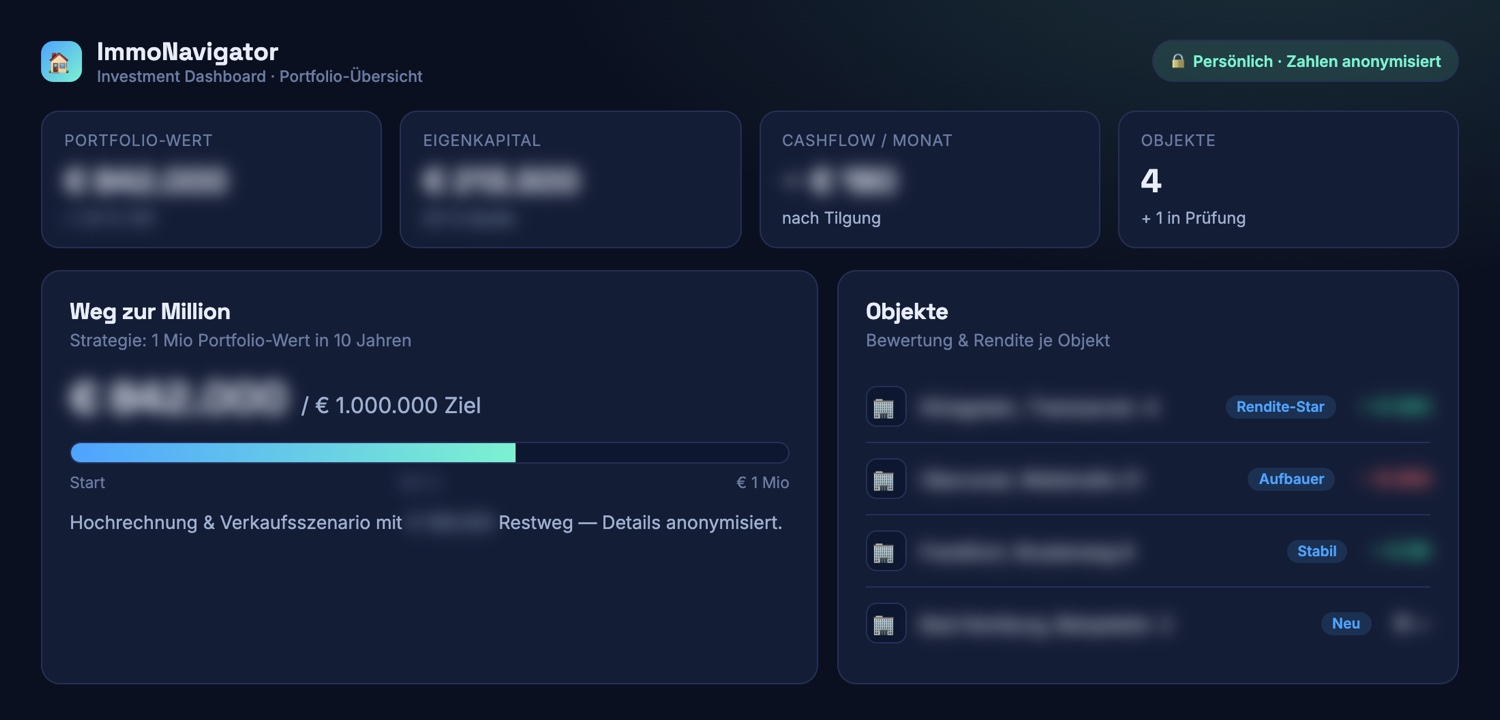
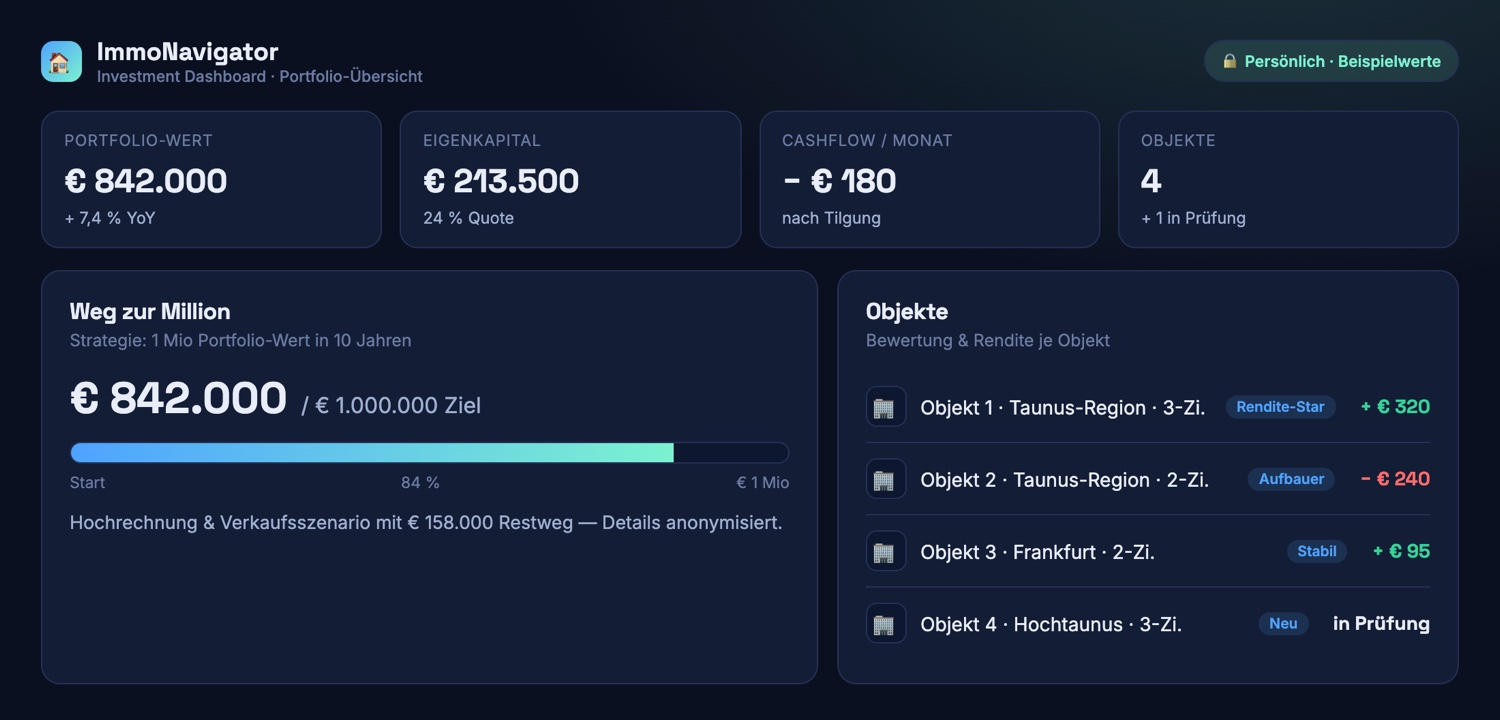
Portfolio: ImmoNavigator entblurrt (lesbare Beispielwerte), Personal Finance entfernt
- ImmoNavigator-Preview + Thumbnail: Zahlen jetzt lesbar (repraesentative Beispielwerte),
  echte Adressen durch neutrale Objekt-Labels (Objekt 1-4 / Region) ersetzt,
  Fortschrittsbalken "Weg zur Million" auf 84% korrigiert
- Karte "Personal Finance Dashboard" entfernt (redundant mit ImmoNavigator)

diff --git a/preview/immoinvest.html b/preview/immoinvest.html
@@ -37,9 +37,9 @@
   section h2{font-size:1.4rem;margin:6px 0 4px}
   section > .wrap > p.lead{color:var(--dim);margin-bottom:22px;max-width:720px}
 
-  /* anonymization blur */
-  .blur{filter:blur(6px);user-select:none;-webkit-user-select:none;cursor:default}
-  .blur.s{filter:blur(4.5px)}
+  /* example data — shown readably (representative placeholder values, not the real portfolio) */
+  .blur{}
+  .blur.s{}
 
   /* core pipeline */
   .pipe{display:grid;grid-template-columns:repeat(4,1fr);gap:14px}
@@ -82,7 +82,7 @@
   .goalval .now{font-size:1.7rem;font-weight:700;font-family:'Space Grotesk'}
   .goalval .tgt{font-size:.92rem;color:var(--dim)}
   .track{height:14px;border-radius:8px;background:#0e1730;border:1px solid var(--border);overflow:hidden}
-  .fill{height:100%;background:linear-gradient(90deg,var(--accent),var(--accent2));width:62%}
+  .fill{height:100%;background:linear-gradient(90deg,var(--accent),var(--accent2));width:84%}
   .ticks{display:flex;justify-content:space-between;font-size:.7rem;color:var(--faint);margin-top:6px}
   .obj{display:flex;align-items:center;justify-content:space-between;padding:10px 0;border-bottom:1px solid var(--border);font-size:.86rem}
   .obj:last-child{border-bottom:none}
@@ -123,13 +123,13 @@
     <h1>ImmoNavigator — Investment Dashboard</h1>
     <p>A personal real-estate investment dashboard: it tracks a multi-property portfolio, computes cashflow,
        equity and yield per property, models sale scenarios, and simulates a <b>"path to a million"</b>
-       strategy over 10 years. Private tool — every figure on this page is blurred.</p>
+       strategy over 10 years. Private tool — the figures below are representative example values.</p>
     <div class="meta">
       <span class="tag">HTML/CSS/JS</span><span class="tag">Dashboard</span><span class="tag">Scenario simulator</span>
       <span class="tag">Netlify</span><span class="tag">Personal finance</span>
     </div>
-    <p class="note">Personal finances. All values, yields and property addresses below are blurred on purpose —
-       this preview shows the structure and the UI, never the real numbers.</p>
+    <p class="note">Personal finances. The values, yields and property labels below are representative example
+       data — this preview shows the structure and the UI, not the real portfolio.</p>
   </div>
 </header>
 
@@ -169,7 +169,7 @@
     <div class="sec-label">02 · User interface</div>
     <h2>Screen A — Portfolio &amp; "Weg zur Million"</h2>
     <p class="lead">The home view: portfolio KPIs up top, the progress bar toward the €1M goal, and a
-       per-property glance. Figures blurred.</p>
+       per-property glance. Representative example values.</p>
 
     <div class="screen">
       <div class="bar"><span class="dot r"></span><span class="dot y"></span><span class="dot g"></span>
@@ -177,7 +177,7 @@
       <div class="screen-body">
         <div class="d-top">
           <div class="d-brand"><span class="m">🏠</span><div>ImmoNavigator<small>Investment Dashboard · Portfolio-Übersicht</small></div></div>
-          <span class="d-badge">🔒 Persönlich · Zahlen anonymisiert</span>
+          <span class="d-badge">🔒 Persönlich · Beispielwerte</span>
         </div>
         <div class="kpis">
           <div class="kpi"><div class="l">Portfolio-Wert</div><div class="v blur">€ 842.000</div><div class="d blur s">+ 7,4 % YoY</div></div>
@@ -192,18 +192,18 @@
             <div class="track"><div class="fill"></div></div>
             <div class="ticks"><span>Start</span><span class="blur s">84 %</span><span>€ 1 Mio</span></div>
             <div style="margin-top:13px;font-size:.84rem;color:var(--dim)">Hochrechnung &amp; Verkaufsszenario mit
-              <span class="blur s">€ 158.000</span> Restweg — Details anonymisiert.</div>
+              <span>€ 158.000</span> Restweg bis zum Ziel — Beispielwerte.</div>
           </div>
           <div class="dcard">
             <h4>Objekte</h4><div class="cap">Cashflow je Objekt</div>
-            <div class="obj"><span class="nm"><span class="ic">🏢</span><span class="blur s">Königstein, Theresenstr. 4</span></span>
-              <span class="r"><span class="chip">Rendite-Star</span><span class="amt pos blur s">+ € 320</span></span></div>
-            <div class="obj"><span class="nm"><span class="ic">🏢</span><span class="blur s">Oberursel, Weilstraße 21</span></span>
-              <span class="r"><span class="chip">Aufbauer</span><span class="amt neg blur s">− € 240</span></span></div>
-            <div class="obj"><span class="nm"><span class="ic">🏢</span><span class="blur s">Frankfurt, Musterweg 8</span></span>
-              <span class="r"><span class="chip">Stabil</span><span class="amt pos blur s">+ € 95</span></span></div>
-            <div class="obj"><span class="nm"><span class="ic">🏢</span><span class="blur s">Bad Homburg, Beispielstr. 2</span></span>
-              <span class="r"><span class="chip">Neu</span><span class="amt blur s">€ —</span></span></div>
+            <div class="obj"><span class="nm"><span class="ic">🏢</span><span>Objekt 1 · Taunus-Region · 3-Zi.</span></span>
+              <span class="r"><span class="chip">Rendite-Star</span><span class="amt pos">+ € 320</span></span></div>
+            <div class="obj"><span class="nm"><span class="ic">🏢</span><span>Objekt 2 · Taunus-Region · 2-Zi.</span></span>
+              <span class="r"><span class="chip">Aufbauer</span><span class="amt neg">− € 240</span></span></div>
+            <div class="obj"><span class="nm"><span class="ic">🏢</span><span>Objekt 3 · Frankfurt · 2-Zi.</span></span>
+              <span class="r"><span class="chip">Stabil</span><span class="amt pos">+ € 95</span></span></div>
+            <div class="obj"><span class="nm"><span class="ic">🏢</span><span>Objekt 4 · Hochtaunus · 3-Zi.</span></span>
+              <span class="r"><span class="chip">Neu</span><span class="amt">in Prüfung</span></span></div>
           </div>
         </div>
       </div>
@@ -217,14 +217,14 @@
     <div class="sec-label">03 · User interface</div>
     <h2>Screen B — Objekt-Bewertung</h2>
     <p class="lead">Drill into one property: purchase vs. market value, equity, yield and monthly cashflow,
-       with the recommendation engine's note. Figures blurred.</p>
+       with the recommendation engine's note. Representative example values.</p>
 
     <div class="screen">
       <div class="bar"><span class="dot r"></span><span class="dot y"></span><span class="dot g"></span>
         <span class="url">immonavigator · objekt / bewertung</span></div>
       <div class="screen-body">
         <div class="d-top">
-          <div class="d-brand"><span class="m">🏢</span><div><span class="blur s">KS-TH4 — Königstein, Theresenstr. 4</span><small>Bewertung &amp; Rendite</small></div></div>
+          <div class="d-brand"><span class="m">🏢</span><div><span>OBJ-1 — Objekt 1 · Taunus-Region</span><small>Bewertung &amp; Rendite</small></div></div>
           <span class="chip" style="font-size:.7rem;padding:4px 11px">⭐ Rendite-Star</span>
         </div>
         <div class="valgrid">
@@ -239,7 +239,7 @@
           <h4>Sofias Empfehlung</h4>
           <div style="font-size:.86rem;color:var(--dim);margin-top:6px">
             Starker Rendite-Beitrag; Wertzuwachs über Plan. Halten und Tilgung
-            <span class="blur s">um € 150/Monat</span> erhöhen beschleunigt den Weg zur Million. <span class="blur s">Details anonymisiert.</span>
+            <span>um € 150/Monat</span> erhöhen beschleunigt den Weg zur Million. <span style="color:var(--faint)">(Beispiel-Empfehlung)</span>
           </div>
         </div>
       </div>
@@ -253,7 +253,7 @@
     <div class="sec-label">04 · User interface</div>
     <h2>Screen C — Finanzierungs-Übersicht</h2>
     <p class="lead">All loans in one place: bank, interest rate (color-coded), remaining debt and monthly rate —
-       so refinancing candidates stand out. Figures blurred.</p>
+       so refinancing candidates stand out. Representative example values.</p>
 
     <div class="screen">
       <div class="bar"><span class="dot r"></span><span class="dot y"></span><span class="dot g"></span>
@@ -261,16 +261,16 @@
       <div class="screen-body">
         <div class="d-top">
           <div class="d-brand"><span class="m">🏦</span><div>Finanzierungs-Übersicht<small>Deine Darlehen im Überblick</small></div></div>
-          <span class="d-badge">🔒 Zahlen anonymisiert</span>
+          <span class="d-badge">🔒 Beispielwerte</span>
         </div>
         <table class="tbl">
           <thead><tr><th>Objekt</th><th>Bank</th><th>Zinssatz</th><th>Zinsbindung</th>
             <th style="text-align:right">Restschuld</th><th style="text-align:right">Rate / Monat</th></tr></thead>
           <tbody>
-            <tr><td class="blur s">KS-TH4 · Königstein</td><td class="blur s">Hausbank A</td><td><span class="rate lo blur s">1,4 %</span></td><td class="blur s">bis 2031</td><td class="num blur s">€ 227.000</td><td class="num blur s">€ 690</td></tr>
-            <tr><td class="blur s">OB-WS21 · Oberursel</td><td class="blur s">Bank B</td><td><span class="rate mid blur s">2,9 %</span></td><td class="blur s">bis 2028</td><td class="num blur s">€ 198.000</td><td class="num blur s">€ 740</td></tr>
-            <tr><td class="blur s">FFM-MW8 · Frankfurt</td><td class="blur s">Bank C</td><td><span class="rate hi blur s">3,8 %</span></td><td class="blur s">bis 2026</td><td class="num blur s">€ 164.000</td><td class="num blur s">€ 810</td></tr>
-            <tr><td class="blur s">BH-BS2 · Bad Homburg</td><td class="blur s">Bank A</td><td><span class="rate lo blur s">1,8 %</span></td><td class="blur s">bis 2034</td><td class="num blur s">€ 141.000</td><td class="num blur s">€ 470</td></tr>
+            <tr><td>OBJ-1 · Taunus</td><td>Hausbank A</td><td><span class="rate lo">1,4 %</span></td><td>bis 2031</td><td class="num">€ 227.000</td><td class="num">€ 690</td></tr>
+            <tr><td>OBJ-2 · Taunus</td><td>Bank B</td><td><span class="rate mid">2,9 %</span></td><td>bis 2028</td><td class="num">€ 198.000</td><td class="num">€ 740</td></tr>
+            <tr><td>OBJ-3 · Frankfurt</td><td>Bank C</td><td><span class="rate hi">3,8 %</span></td><td>bis 2026</td><td class="num">€ 164.000</td><td class="num">€ 810</td></tr>
+            <tr><td>OBJ-4 · Hochtaunus</td><td>Bank A</td><td><span class="rate lo">1,8 %</span></td><td>bis 2034</td><td class="num">€ 141.000</td><td class="num">€ 470</td></tr>
           </tbody>
         </table>
         <div style="margin-top:12px;display:flex;gap:11px;flex-wrap:wrap">

diff --git a/index.html b/index.html
@@ -385,15 +385,6 @@ const PROJECTS = [
     icon: "🔄"
   },
   {
-    title: "Personal Finance Dashboard",
-    category: "Data & Business",
-    desc: "Local-first personal-finance dashboard — balances, income/expenses, budgets and savings goals with interactive charts, built to a clean brand system.",
-    arch: ["⚡ Web app · local-first (no server DB)", "📊 React + Vite"],
-    tech: ["React", "Vite", "Charts"],
-    status: "private",
-    icon: "💰"
-  },
-  {
     title: "Flight Logbook",
     category: "Data & Business",
     desc: "A digital pilot logbook that imports an existing Excel logbook into a proper database, with validation of flight hours and PIC time.",
